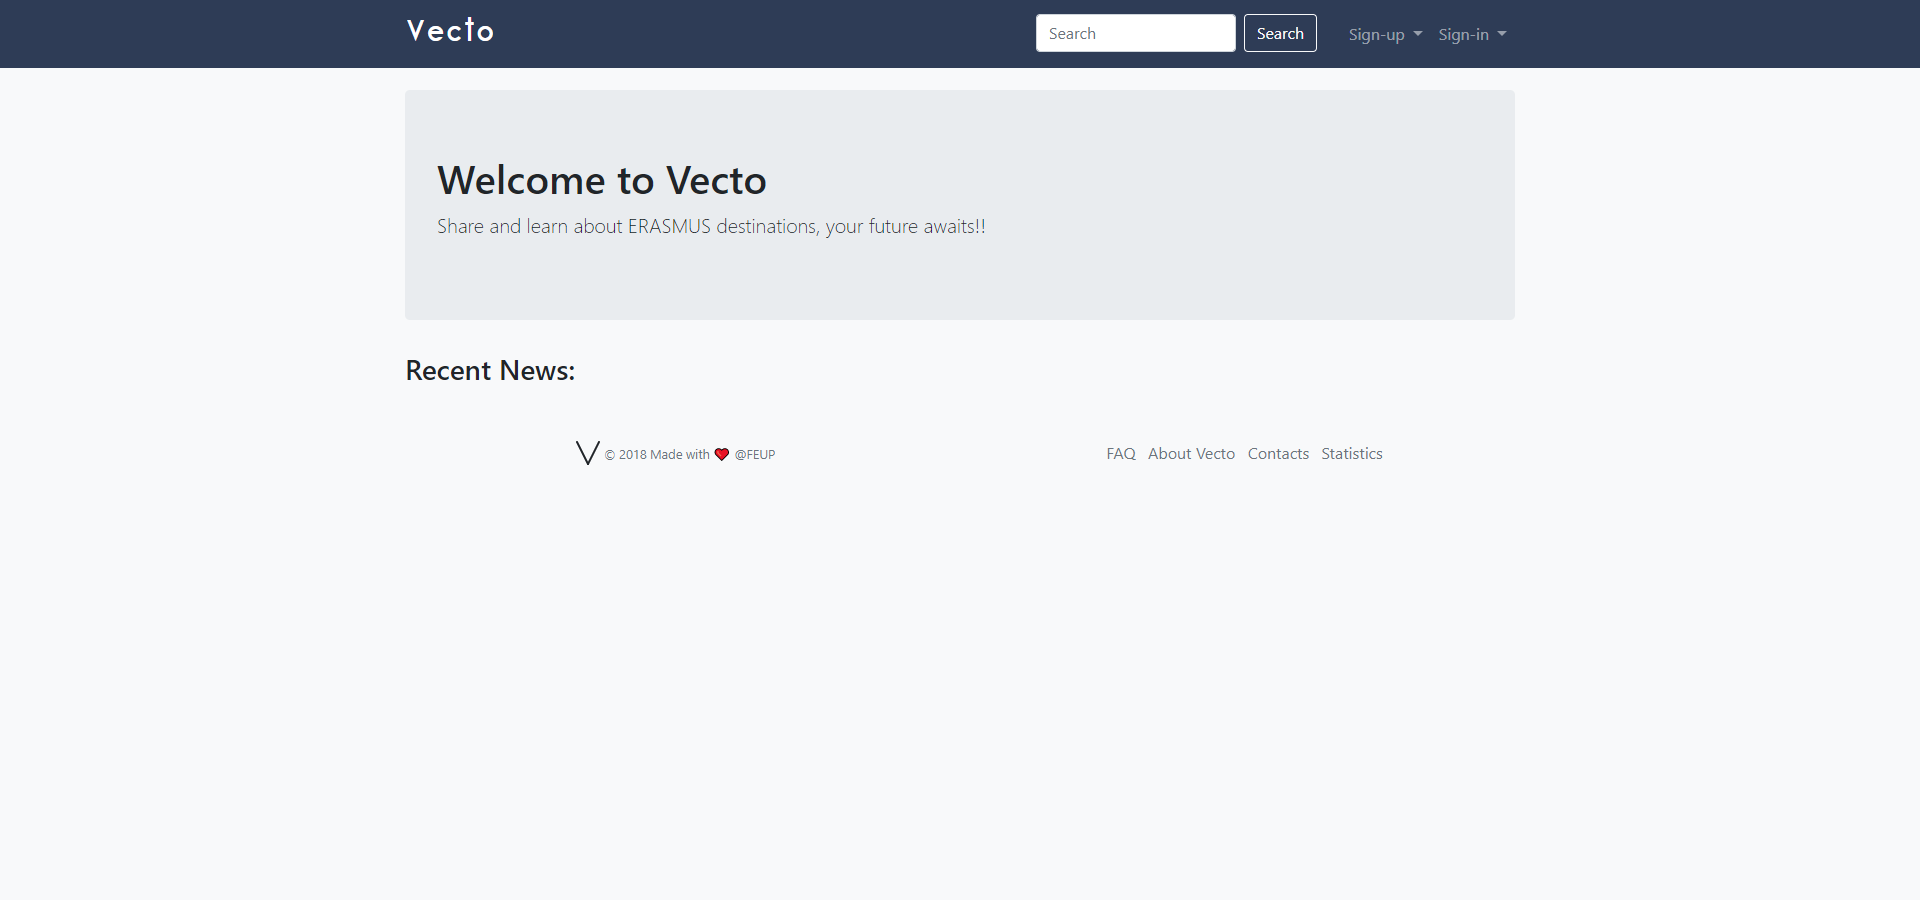
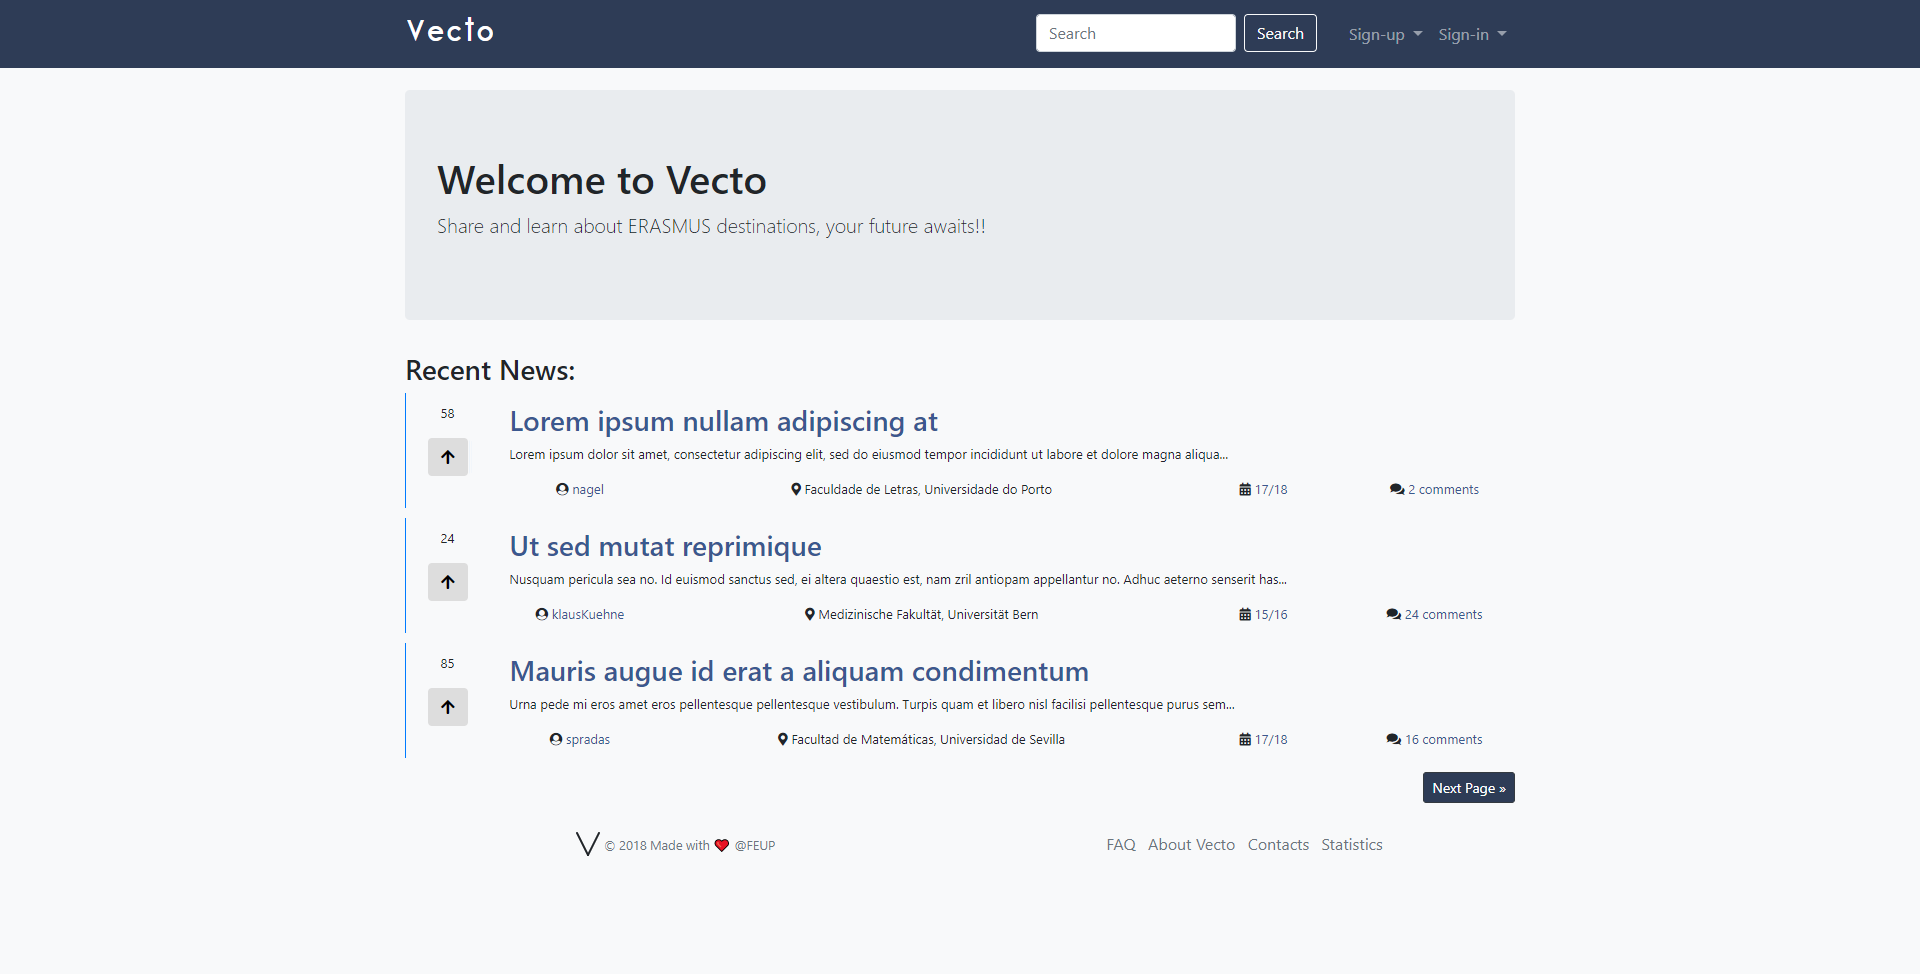
Include feed in main index

diff --git a/index.html b/index.html
@@ -98,6 +98,107 @@
 			<p class="lead">Share and learn about ERASMUS destinations, your future awaits!!</p>
 		</div>
 		<h3>Recent News:</h3>
+		<div id="feed-content" class="">
+			<div class="animated fadeInLeft bg-light rounded-right border-primary border-left text-grey container">
+				<div class="row">
+					<div class="text-center col-xs-12 col-lg-1 col-xl-1 col-sm-12 col-md-1">
+						<p>
+							58
+						</p>
+						<button type="button" data-toggle="button" class="upvoteBtn btn">
+							<i class="fas fa-arrow-up"></i>
+						</button>
+					</div>
+					<div class="col-lg-11 col-sm-12 col-xl-11 col-md-11">
+						<a href="post-view.html">
+							<h3>Lorem ipsum nullam adipiscing at</h3>
+						</a>
+						<p class="short">Lorem ipsum dolor sit amet, consectetur adipiscing elit, sed do eiusmod tempor incididunt ut labore et dolore magna aliqua...</p>
+						<div class="row">
+							<div class="text-center col-lg-2 col-3">
+								<i class="fas fa-user-circle"></i> <a href="user.html?user=nagel">nagel</a>
+							</div>
+							<div class="text-center col-lg-6 col-4">
+								<i class="fas fa-map-marker-alt"></i> Faculdade de Letras, Universidade do Porto
+							</div>
+							<div class="text-center col-lg-2 col-2">
+								<i class="fas fa-calendar-alt"></i> <a href="search.html?year=1718">17/18</a> 
+							</div>
+							<div class="text-center col-lg-2 col-2">
+								<i class="fas fa-comments"></i><a href="post-view.html"> 2 comments</a>
+							</div>
+						</div>
+					</div>
+				</div>
+			</div>
+			<div class="bg-light rounded-right border-primary border-left text-grey container">
+				<div class="row">
+					<div class="text-center col-xs-12 col-lg-1 col-xl-1 col-sm-12 col-md-1">
+						<p>
+							24
+						</p>
+						<button type="button" data-toggle="button" class="upvoteBtn btn">
+							<i class="fas fa-arrow-up"></i>
+						</button>
+					</div>
+					<div class="col-lg-11 col-sm-12 col-xl-11 col-md-11">
+						<a href="post-view.html">
+							<h3>Ut sed mutat reprimique</h3>
+						</a>
+						<p class="short">Nusquam pericula sea no. Id euismod sanctus sed, ei altera quaestio est, nam zril antiopam appellantur no. Adhuc aeterno senserit has...</p>
+						<div class="row">
+							<div class="text-center col-lg-2 col-3">
+								<i class="fas fa-user-circle"></i> <a href="user.html?user=klausKuehne">klausKuehne</a>
+							</div>
+							<div class="text-center col-lg-6 col-4">
+								<i class="fas fa-map-marker-alt"></i> Medizinische Fakultät, Universität Bern
+							</div>
+							<div class="text-center col-lg-2 col-2">
+								<i class="fas fa-calendar-alt"></i> <a href="search.html?year=1516">15/16</a>
+							</div>
+							<div class="text-center col-lg-2 col-2">
+									<i class="fas fa-comments"></i><a href="post-view.html"> 24 comments</a>
+							</div>
+						</div>
+					</div>
+				</div>
+			</div>
+			<div class="bg-light rounded-right border-primary border-left text-grey container">
+				<div class="row">
+					<div class="text-center col-xs-12 col-lg-1 col-xl-1 col-sm-12 col-md-1">
+						<p>
+							85
+						</p>
+						<button type="button" data-toggle="button" class="upvoteBtn btn">
+							<i class="fas fa-arrow-up"></i>
+						</button>
+					</div>
+					<div class="col-lg-11 col-sm-12 col-xl-11 col-md-11">
+						<a href="post-view.html">
+							<h3>Mauris augue id erat a aliquam condimentum</h3>
+						</a>
+						<p class="short">Urna pede mi eros amet eros pellentesque pellentesque vestibulum. Turpis quam et libero nisl facilisi pellentesque purus sem...</p>
+						<div class="row">
+							<div class="text-center col-lg-2 col-3">
+								<i class="fas fa-user-circle"></i> <a href="user.html?user=spradas">spradas</a>
+							</div>
+							<div class="text-center col-lg-6 col-4">
+								<i class="fas fa-map-marker-alt"></i> Facultad de Matemáticas, Universidad de Sevilla
+							</div>
+							<div class="text-center col-lg-2 col-2">
+								<i class="fas fa-calendar-alt"></i> <a href="search.html?year=1718">17/18</a>
+							</div>
+							<div class="text-center col-lg-2 col-2">
+									<i class="fas fa-comments"></i><a href="post-view.html"> 16 comments</a>
+							</div>
+						</div>
+					</div>
+				</div>
+			</div>
+		</div>
+		<div class="pb-3">
+			<a class="mt-1 float-right btn btn-sm btn-primary" href="#" role="button">Next Page &raquo;</a>
+		</div>
 	</div>
 
 
